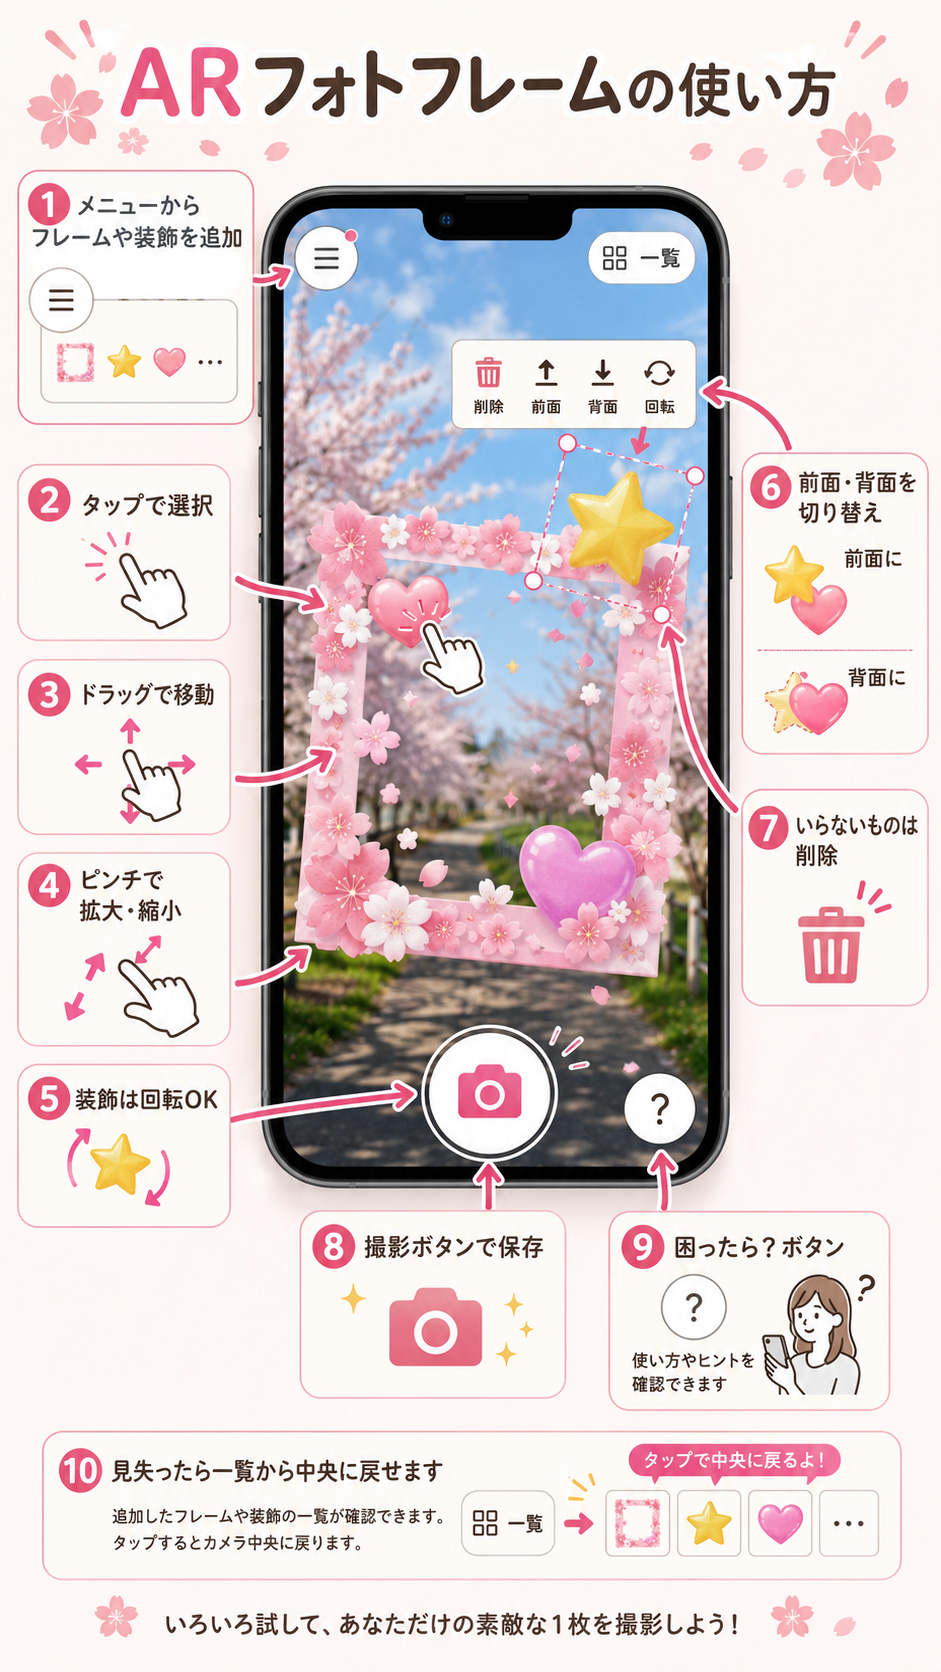
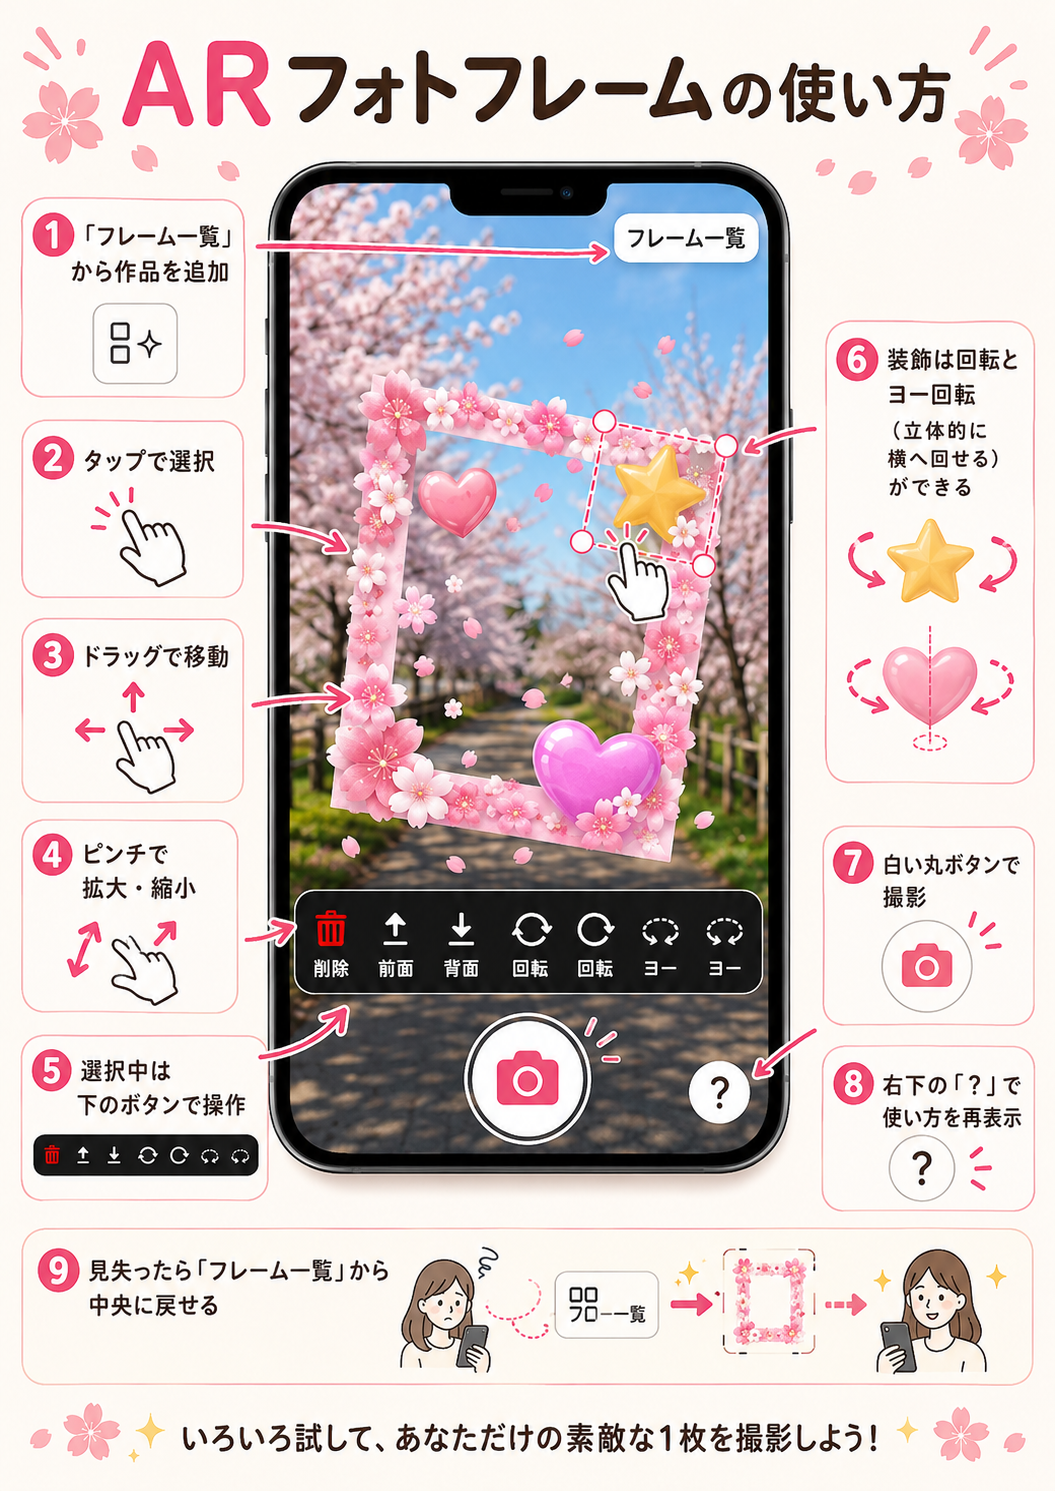
回転/ヨーのボタンをチュートリアル画像に合わせたSVGアイコンに変更・新チュートリアル画像

diff --git a/src/components/ar/ARToolbar.tsx b/src/components/ar/ARToolbar.tsx
@@ -39,6 +39,51 @@ function ToBackIcon() {
   );
 }
 
+/** 回転アイコン（実線の円弧矢印）。direction="left"で反時計回り。 */
+function RotateIcon({ direction }: { direction: "left" | "right" }) {
+  return (
+    <svg
+      viewBox="0 0 24 24"
+      width="20"
+      height="20"
+      fill="none"
+      stroke="currentColor"
+      strokeWidth="2.2"
+      strokeLinecap="round"
+      strokeLinejoin="round"
+      aria-hidden="true"
+      style={direction === "left" ? { transform: "scaleX(-1)" } : undefined}
+    >
+      <polyline points="23 4 23 10 17 10" />
+      <path d="M20.49 15a9 9 0 1 1-2.13-9.36L23 10" />
+    </svg>
+  );
+}
+
+/** ヨー回転アイコン（破線の円弧矢印）。チュートリアル画像⑤⑥のデザインに合わせる。 */
+function YawIcon({ direction }: { direction: "left" | "right" }) {
+  return (
+    <svg
+      viewBox="0 0 24 24"
+      width="20"
+      height="20"
+      fill="none"
+      stroke="currentColor"
+      strokeWidth="2.2"
+      strokeLinecap="round"
+      strokeLinejoin="round"
+      aria-hidden="true"
+      style={direction === "left" ? { transform: "scaleX(-1)" } : undefined}
+    >
+      <polyline points="23 4 23 10 17 10" />
+      <path
+        d="M20.49 15a9 9 0 1 1-2.13-9.36L23 10"
+        strokeDasharray="3.2 3.2"
+      />
+    </svg>
+  );
+}
+
 /** カメラアイコン（撮影ボタン） */
 function CameraIcon() {
   return (
@@ -148,26 +193,26 @@ export function ARToolbar({ onCapture }: { onCapture: () => void }) {
           {selected.rotatable && (
             <>
               <EditButton
-                icon={<span aria-hidden="true">↺</span>}
+                icon={<RotateIcon direction="left" />}
                 label="回転"
                 ariaLabel="左に回転"
                 onClick={() => rotate(-ROTATION_STEP_DEG)}
               />
               <EditButton
-                icon={<span aria-hidden="true">↻</span>}
+                icon={<RotateIcon direction="right" />}
                 label="回転"
                 ariaLabel="右に回転"
                 onClick={() => rotate(ROTATION_STEP_DEG)}
               />
               {/* Y軸（画面縦軸）回転。立体モデルの奥行きを見せる */}
               <EditButton
-                icon={<span aria-hidden="true">Y↺</span>}
+                icon={<YawIcon direction="left" />}
                 label="ヨー"
                 ariaLabel="左へヨー回転"
                 onClick={() => rotateY(-ROTATION_STEP_DEG)}
               />
               <EditButton
-                icon={<span aria-hidden="true">Y↻</span>}
+                icon={<YawIcon direction="right" />}
                 label="ヨー"
                 ariaLabel="右へヨー回転"
                 onClick={() => rotateY(ROTATION_STEP_DEG)}
